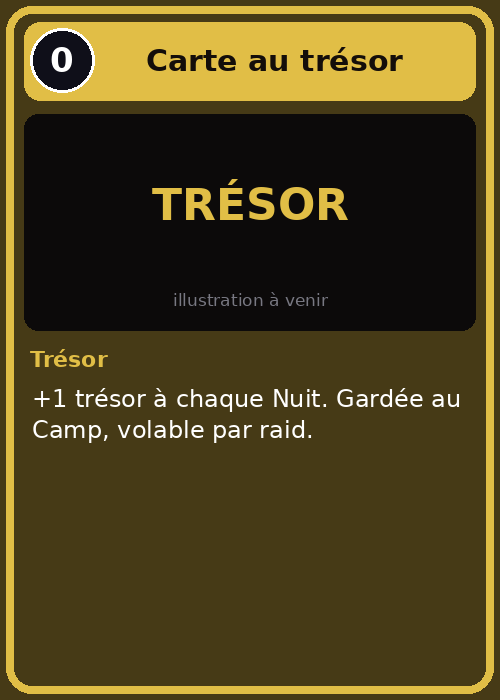
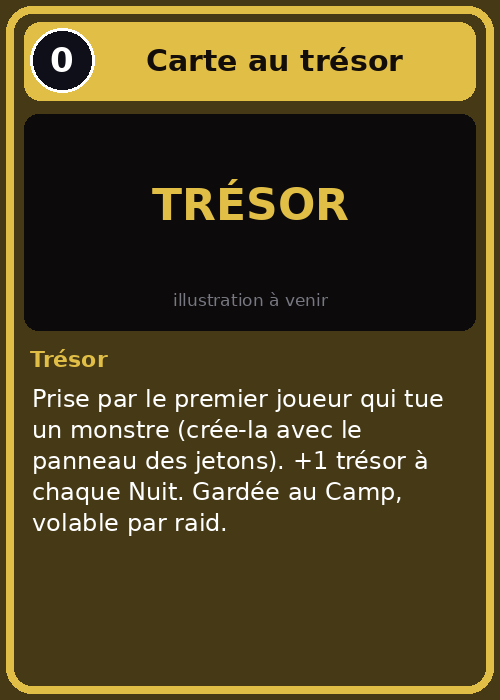
Règles de deck du proto (30 cartes) et deux decks préconstruits
Claude-Session: https://claude.ai/code/session_01Ei1ETxKFF4cSM4RwXRQ4jQ

Changed region(s): [[0.06, 0.54, 0.93, 0.78], [0.84, 0.63, 0.87, 0.69]]

diff --git a/tools/generate.py b/tools/generate.py
@@ -83,15 +83,15 @@ CARDS = [
     # --- Cartes de test (en attendant les Druides) ---
     C("gardien-druide", "Druide (nom temporaire)", "Gardien", 0, "Test",
       "Passif : à chaque monstre tué, récolte un ingrédient.", 2, 8, legal=1),
-    C("unite-a", "Unité test A", "Unite", 1, "Test", "Unité de base.", 2, 3),
-    C("unite-b", "Unité test B", "Unite", 2, "Test", "Unité de base.", 3, 2),
-    C("unite-c", "Unité test C", "Unite", 3, "Test", "Unité de base.", 3, 5),
-    C("unite-d", "Unité test D", "Unite", 4, "Test", "Unité de base.", 5, 4),
+    C("unite-a", "Unité test A", "Unite", 1, "Test", "Unité de base.", 2, 3, legal=8),
+    C("unite-b", "Unité test B", "Unite", 2, "Test", "Unité de base.", 3, 2, legal=8),
+    C("unite-c", "Unité test C", "Unite", 3, "Test", "Unité de base.", 3, 5, legal=8),
+    C("unite-d", "Unité test D", "Unite", 4, "Test", "Unité de base.", 5, 4, legal=8),
     # --- Communes ---
     C("relique-test", "Relique test", "Relique", 0, "Relique",
       "Passif de relique (à définir). Gardée au Camp, volable par raid.", legal=3),
     C("carte-tresor", "Carte au trésor", "Tresor", 0, "Relique",
-      "+1 trésor à chaque Nuit. Gardée au Camp, volable par raid.", legal=1),
+      "Prise par le premier joueur qui tue un monstre (crée-la avec le panneau des jetons). +1 trésor à chaque Nuit. Gardée au Camp, volable par raid.", legal=False, token=True),
     C("energie", "Énergie", "Energie", 0, "Energie",
       "Incline-la pour payer 1. 1 seule se redresse par tour.", legal=False, token=True),
     # --- Donjon ---
